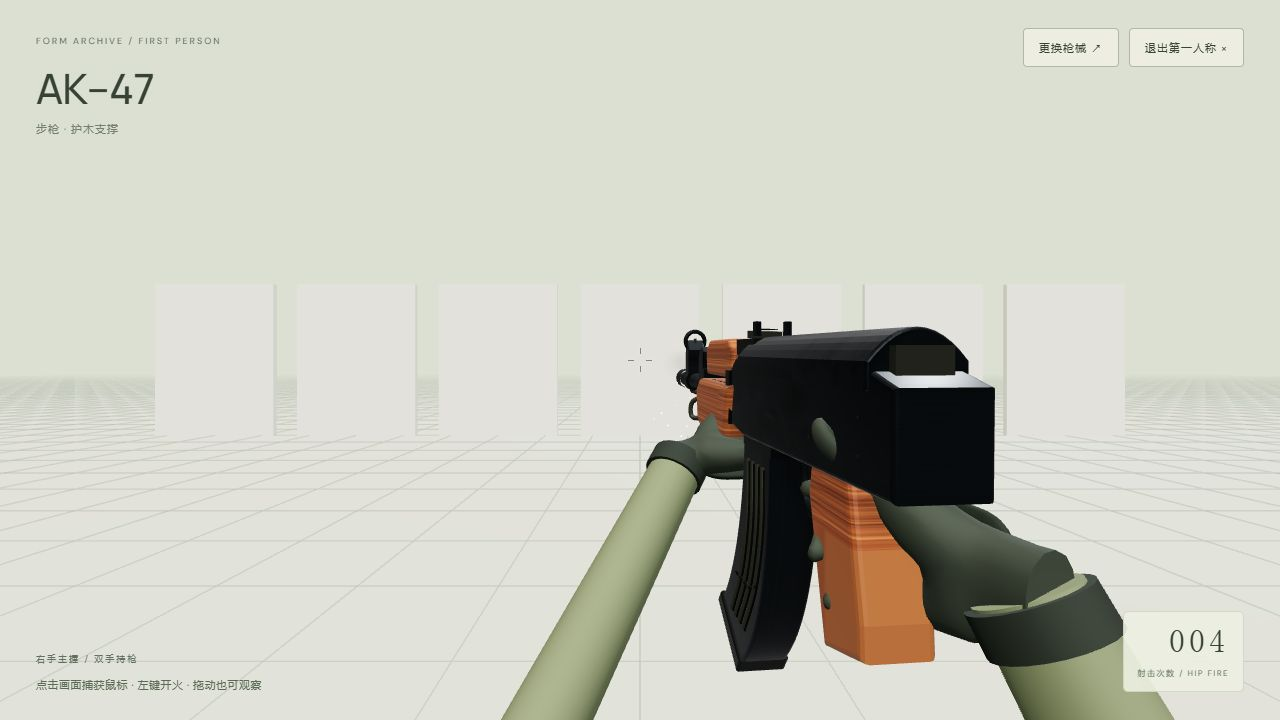
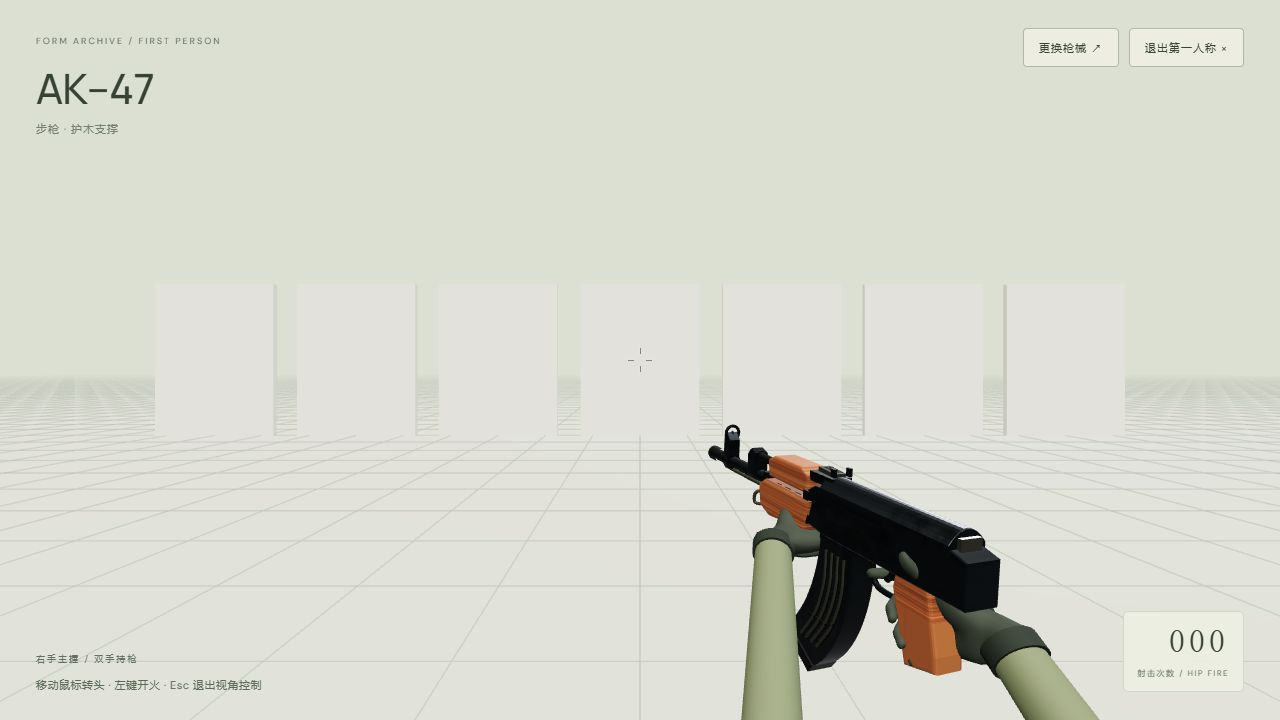
fix: frame hip-fire weapons at lower right with inward angle

Changed region(s): [[0.375, 0.4278, 0.9375, 1.0], [0.0312, 0.9472, 0.2188, 0.9778], [0.9375, 0.8861, 0.9688, 0.9167]]

diff --git a/src/first-person-config.js b/src/first-person-config.js
@@ -1,13 +1,16 @@
 // Positions use each existing gun's artistic local coordinates, not real dimensions.
 export const firstPersonProfiles = {
   ak47: {
-    scale: 0.115, position: [0.13, -0.04, -0.50], rotation: [0.015, Math.PI / 2 + 0.10, 0],
+    // Hip-fire framing: receiver at lower right, muzzle below/right of reticle.
+    scale: 0.105, position: [0.31, -0.23, -0.80], rotation: [0, Math.PI / 2 + 0.32, 0.065],
+    elbows: { right: [0.46, -0.61, -0.12], left: [0.04, -0.58, -0.18] },
     right: { wrist: [-1.91, -0.66, 0.36], rotation: [0, 0, -Math.PI / 2] },
     left: { wrist: [1.04, -0.62, -0.65], rotation: [Math.PI / 2, 0, 0] },
     recoil: 0.033, lift: 0.045, label: '步枪 · 护木支撑',
   },
   m1913: {
-    scale: 0.052, position: [0.12, -0.09, -0.70], rotation: [0.015, Math.PI / 2 + 0.10, 0],
+    scale: 0.048, position: [0.25, -0.19, -0.72], rotation: [0, Math.PI / 2 + 0.32, 0.04],
+    elbows: { right: [0.41, -0.57, -0.13], left: [0.03, -0.56, -0.18] },
     right: { wrist: [-3.8, -1.6, 0.61], rotation: [0, 0, -Math.PI / 2] },
     left: { wrist: [-3.85, -2.15, -0.78], rotation: [Math.PI, 0, -Math.PI / 2] },
     recoil: 0.046, lift: 0.09, label: '手枪 · 双手包覆',

diff --git a/src/first-person.js b/src/first-person.js
@@ -64,7 +64,7 @@ export function createFirstPerson({ scene, camera, controls, canvas, archives, f
       hand.root.position.fromArray(pose.wrist); hand.root.rotation.fromArray(pose.rotation);
       hand.root.scale.setScalar(1 / profile.scale);
       weapon.add(hand.root); hand.pose({ support: side === 'left', rifle: id === 'ak47' });
-      const elbow = new THREE.Vector3(side === 'right' ? 0.40 : -0.34, -0.68, -0.06).applyMatrix4(cameraToGun);
+      const elbow = new THREE.Vector3(...profile.elbows[side]).applyMatrix4(cameraToGun);
       arms.add(createForearm(new THREE.Vector3(...pose.wrist), elbow, 0.043 / profile.scale, sleeve));
     }
     weapon.add(arms);

diff --git a/docs/first-person-plan.md b/docs/first-person-plan.md
@@ -80,3 +80,10 @@
 - Esc 暂停视角控制并释放鼠标；“继续观察”恢复控制且不触发射击。
 - 浏览器不支持 Pointer Lock 时使用画面内自由鼠标移动，不再要求按住左键拖动。
 - 失焦、页面隐藏、浏览器释放鼠标或打开目录时暂停控制并停止射击。
+
+### 腰射构图调整
+
+- 参考 CS / VALORANT 常见的右手腰射构图：枪身位于右下，枪口在准星右下方，中央视野保持开阔。采用相似构图原则，不复制游戏模型或宣称复刻其内部参数。
+- 两把枪分别下移、右移、拉远并调整朝向，增加枪身侧面的可见度，避免原先过近、过高的后部遮挡。
+- 前臂出口按枪械分别配置，随持枪位置自然落向画面下方。
+- 参考页面：https://www.gameres.com/863321.html ，检索图集：https://www.bing.com/images/search?q=counter+strike+2+valorant+rifle+hip+fire+first+person+gameplay 。
